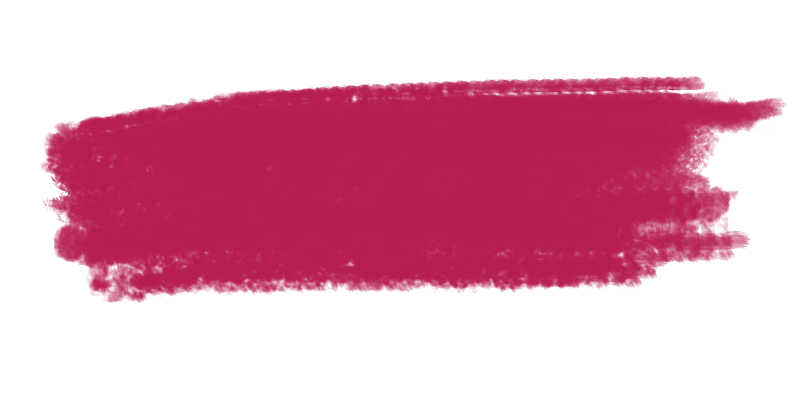
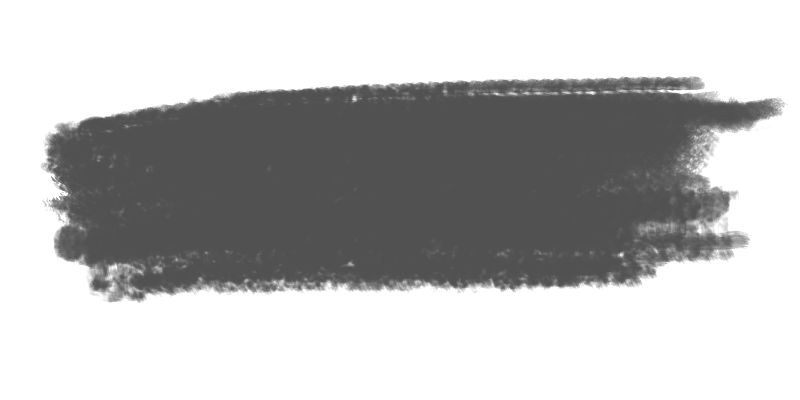
[UPDATED] website final for now

diff --git a/index.html b/index.html
@@ -37,6 +37,9 @@
           <a class="nav-link custom_navbar" href="#Projects">Projects</a>
         </li>
         <li class="nav-item">
+          <a class="nav-link custom_navbar" href="#Skills">Skills</a>
+        </li>
+        <li class="nav-item">
           <a class="nav-link custom_navbar" href="#Contact">Get in contact</a>
         </li>
       </ul>
@@ -52,29 +55,14 @@
   </div>
 
   <section class="">
-  <div class="background" style="height: 60%;">
+  <div class="background" style="height: 80vh;">
     <div class="paintSplotches text-center p-5 bg-body-tertiary " style="height: 100%; width: 100%;">
-      <h1 class="mb-3" style="color: whitesmoke; font-size: 150px;">Falco Van Haut</h1>
-      <span class="mb-3" style="color: rgb(216, 203, 203); font-size: 30px;">Game Developer</span>
-      <br>
-      <br>
-      <i class="fas fa-at fa-lg" style="color: whitesmoke; margin: 5px; font-size: 35px;"></i>
-      <a class="fab fa-linkedin-in fa-lg" style="color: whitesmoke; margin: 5px; font-size: 35px;" href="https://www.linkedin.com/in/falco-van-haut-6704301b9/"></a>
-      <a class="fab fa-twitter fa-lg" style="color: whitesmoke; margin: 5px; font-size: 35px;" href="https://twitter.com/MIND_DREGS"></a>
-      <a class="fab fa-github fa-lg" style="color: whitesmoke; margin: 5px; font-size: 35px;" href="https://github.com/FalcoVH1"></a>
-      <br>
-      <br>
-      <br>
-      <!--<span data-mdb-ripple-init class="btn btn-primary" href="" role="button">FIND OUT MORE:</a>-->
-      <hr style="border: 1px solid whitesmoke; width: 80vw; margin:auto;"></hr>
-      <br>
-      <br>
-      <br>
-      <p style="color: whitesmoke; width: 50vw; margin: auto;"> 
-        Independent game developer.
-      </p>
-      <br>
-      <br>
+      <h1 class="mb-3" style="color: whitesmoke; font-size: 150px; ">Falco Van Haut</h1>
+      <h1 class="mb-3 outlined" style="color: whitesmoke; font-size: 150px; margin-top: -100px;">Falco Van Haut</h1>
+      <h1 class="mb-3 outlined" style="color: whitesmoke; font-size: 150px; margin-top: -100px;">Falco Van Haut</h1>
+      <h1 class="mb-3 outlined" style="color: whitesmoke; font-size: 150px; margin-top: -100px;">Falco Van Haut</h1>
+      <h1 class="mb-3 outlined" style="color: whitesmoke; font-size: 150px; margin-top: -100px;">Falco Van Haut</h1>
+      <h1 class="mb-3 outlined" style="color: whitesmoke; font-size: 150px; margin-top: -100px;">Falco Van Haut</h1>
     </div>
   </div>
   </section>
@@ -91,6 +79,12 @@
   <div style="width: 100%; text-align: center;">
     <div style="width: 25rem; margin: auto;" class="header_splotch">
       <h1 style="color: whitesmoke; font-size: 90px;"> 
+        Projects
+      </h1>
+      <h1 class="outlined"  style="color: whitesmoke; font-size: 90px; margin-top: -70px"> 
+        Projects
+      </h1>
+      <h1 class="outlined"  style="color: whitesmoke; font-size: 90px; margin-top: -70px"> 
         Projects
       </h1>
     </div>
@@ -204,6 +198,7 @@
             <span class="tag">36 weeks</span>
             <span class="tag">Steam Release</span>
             <span class="tag">student project</span>
+            <span class="tag-legendary">BAFTA winner</span>
           </div>
         </div>
       </a> 
@@ -278,11 +273,17 @@
   <div class="background scroll_snapping_point" style="height: 9vh;" id="Skills">
   </div>
 
-  <!-- <section class="">
+  <section class="">
   <div class="container-fluid justify-content-center align-items-center background" style="width: 100%;">
   <div style="width: 100%; text-align: center;">
     <div style="width: 25rem; margin: auto;" class="header_splotch">
       <h1 style="color: whitesmoke; font-size: 90px;"> 
+        Skills
+      </h1>
+      <h1 class="outlined" style="color: whitesmoke; font-size: 90px; margin-top: -70px"> 
+        Skills
+      </h1>
+      <h1 class="outlined" style="color: whitesmoke; font-size: 90px; margin-top: -70px"> 
         Skills
       </h1>
     </div>
@@ -325,7 +326,7 @@
     </div>   
   </div>
   </div>
-  </section> -->
+  </section>
 
   <div class="background" style="height: 15vh;">
   </div>
@@ -340,100 +341,26 @@
       <h1 style="color: whitesmoke; font-size: 70px;"> 
         Contact Me
       </h1>
+      <h1 class="outlined" style="color: whitesmoke; font-size: 70px; margin-top: -50px;"> 
+        Contact Me
+      </h1>
+      <h1 class="outlined" style="color: whitesmoke; font-size: 70px; margin-top: -50px;"> 
+        Contact Me
+      </h1>
     </div>
     <hr style="border: 1px solid whitesmoke; width: 80vw; margin:auto;"></hr>
   </div>
 
   <div class="background" style="height: 10vh;">
   </div>
-
-<!--Section: Contact v.2-->
-
-<div class="container-fluid mb-4 background" style="width: 60vw;">
-
-  <div class="row">
-
-      <!--Grid column-->
-      <div class="col-md-9 mb-md-0 mb-5">
-          <form id="contact-form" name="contact-form" action="mail.php" method="POST">
-
-              <!--Grid row-->
-              <div class="row">
-
-                  <!--Grid column-->
-                  <div class="col-md-6">
-                      <div class="md-form mb-0">
-                          <input type="text" id="name" name="name" class="form-control">
-                          <label for="name" class="" style="color: whitesmoke">Your name</label>
-                      </div>
-                  </div>
-                  <!--Grid column-->
-
-                  <!--Grid column-->
-                  <div class="col-md-6">
-                      <div class="md-form mb-0">
-                          <input type="text" id="email" name="email" class="form-control">
-                          <label for="email" class="" style="color: whitesmoke">Your email</label>
-                      </div>
-                  </div>
-                  <!--Grid column-->
-
-              </div>
-              <!--Grid row-->
-
-              <!--Grid row-->
-              <div class="row">
-                  <div class="col-md-12">
-                      <div class="md-form mb-0">
-                          <input type="text" id="subject" name="subject" class="form-control">
-                          <label for="subject" class="" style="color: whitesmoke">Subject</label>
-                      </div>
-                  </div>
-              </div>
-              <!--Grid row-->
-
-              <!--Grid row-->
-              <div class="row">
-
-                  <!--Grid column-->
-                  <div class="col-md-12">
-
-                      <div class="md-form">
-                          <textarea type="text" id="message" name="message" rows="2" class="form-control md-textarea"></textarea>
-                          <label for="message" style="color: whitesmoke">Your message</label>
-                      </div>
-
-                  </div>
-              </div>
-              <!--Grid row-->
-
-          </form>
-
-          <div class="text-center text-md-left">
-              <a class="btn btn-primary" onclick="document.getElementById('contact-form').submit();" style="color: whitesmoke">Send</a>
-          </div>
-          <div class="status"></div>
-      </div>
-      <!--Grid column-->
-
-      <!--Grid column-->
-      <div class="col-md-3 text-center">
-          <ul class="list-unstyled mb-0">
-              <li><i class="fas fa-map-marker-alt fa-2x"></i>
-                  <p style="color: whitesmoke">Breda, The Netherlands</p>
-              </li>
-
-              <li><i class="fas fa-envelope mt-4 fa-2x"></i>
-                  <p style="color: whitesmoke">falcovh.gamedev@gmail.com</p>
-              </li>
-          </ul>
-      </div>
-      <!--Grid column-->
-
-  </div>
-
-</div>
-<!--Section: Contact v.2-->
+    <div class="container-fluid justify-content-center align-items-center background" style="width: 100%;">
+      <div style="width: 100%; text-align: center;">
+      <a class="fas fa-at fa-lg" style="color: whitesmoke; margin: 5px; font-size: 70px;" href="mailto:falco.van.haut@gmail.com"></a>></a>
+      <a class="fab fa-linkedin-in fa-lg" style="color: whitesmoke; margin: 5px; font-size: 70px;" href="https://www.linkedin.com/in/falco-van-haut-6704301b9/"></a>
+      <a class="fab fa-twitter fa-lg" style="color: whitesmoke; margin: 5px; font-size: 70px;" href="https://twitter.com/MIND_DREGS"></a>
+      <a class="fab fa-github fa-lg" style="color: whitesmoke; margin: 5px; font-size: 70px;" href="https://github.com/FalcoVH1"></a>
+    </div>
+    </div>
   </section>
 
 

diff --git a/css/style.css b/css/style.css
@@ -14,7 +14,31 @@
 
     border-radius: 25px;
 
-    border: 2px solid rgb(138, 28, 52);
+    border: 2px solid rgb(156, 156, 156);
+}
+
+.tag-legendary {
+  display: inline-flex;
+  color: whitesmoke;
+  background-color: rgb(75, 65, 28);
+  font-size: smaller;
+  
+  padding-left: 0.75rem;
+  padding-right: 0.75rem;
+  padding-top: 0.2rem;
+  padding-bottom: 0.2rem;
+
+  margin-top: 0.2rem;
+  margin-bottom: 0.2rem;
+
+  border-radius: 25px;
+
+  border: 2px solid rgb(233, 163, 0);
+}
+
+.outlined {
+  -webkit-text-fill-color: transparent;
+  -webkit-text-stroke: 1px;
 }
 
 .paintSplotches {
@@ -38,7 +62,7 @@
 }
 
 .custom_navbar:hover {
-    color: rgb(255, 128, 139);
+    color: rgb(159, 159, 159);
     background-color: #0d0f14;
 }
 
